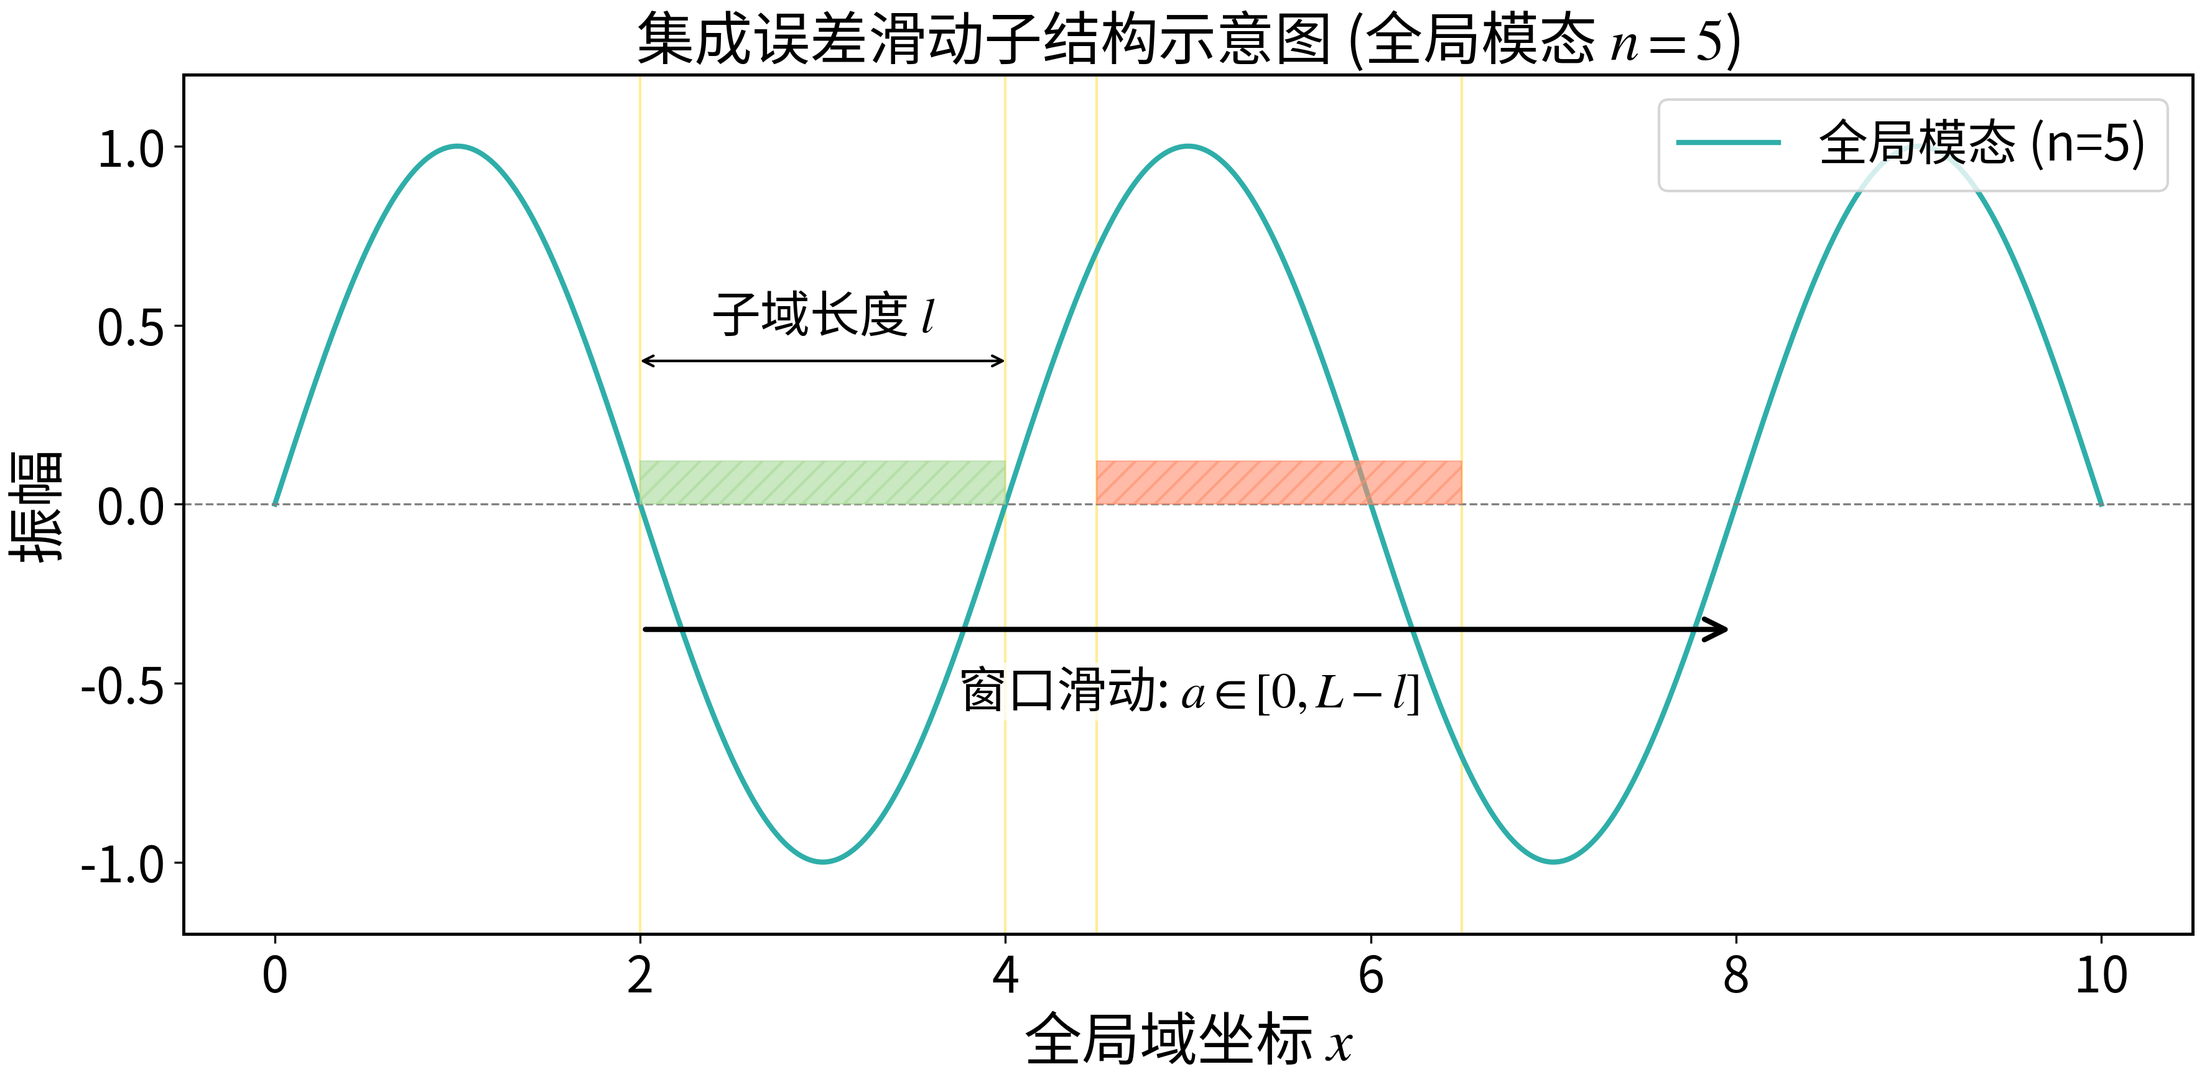
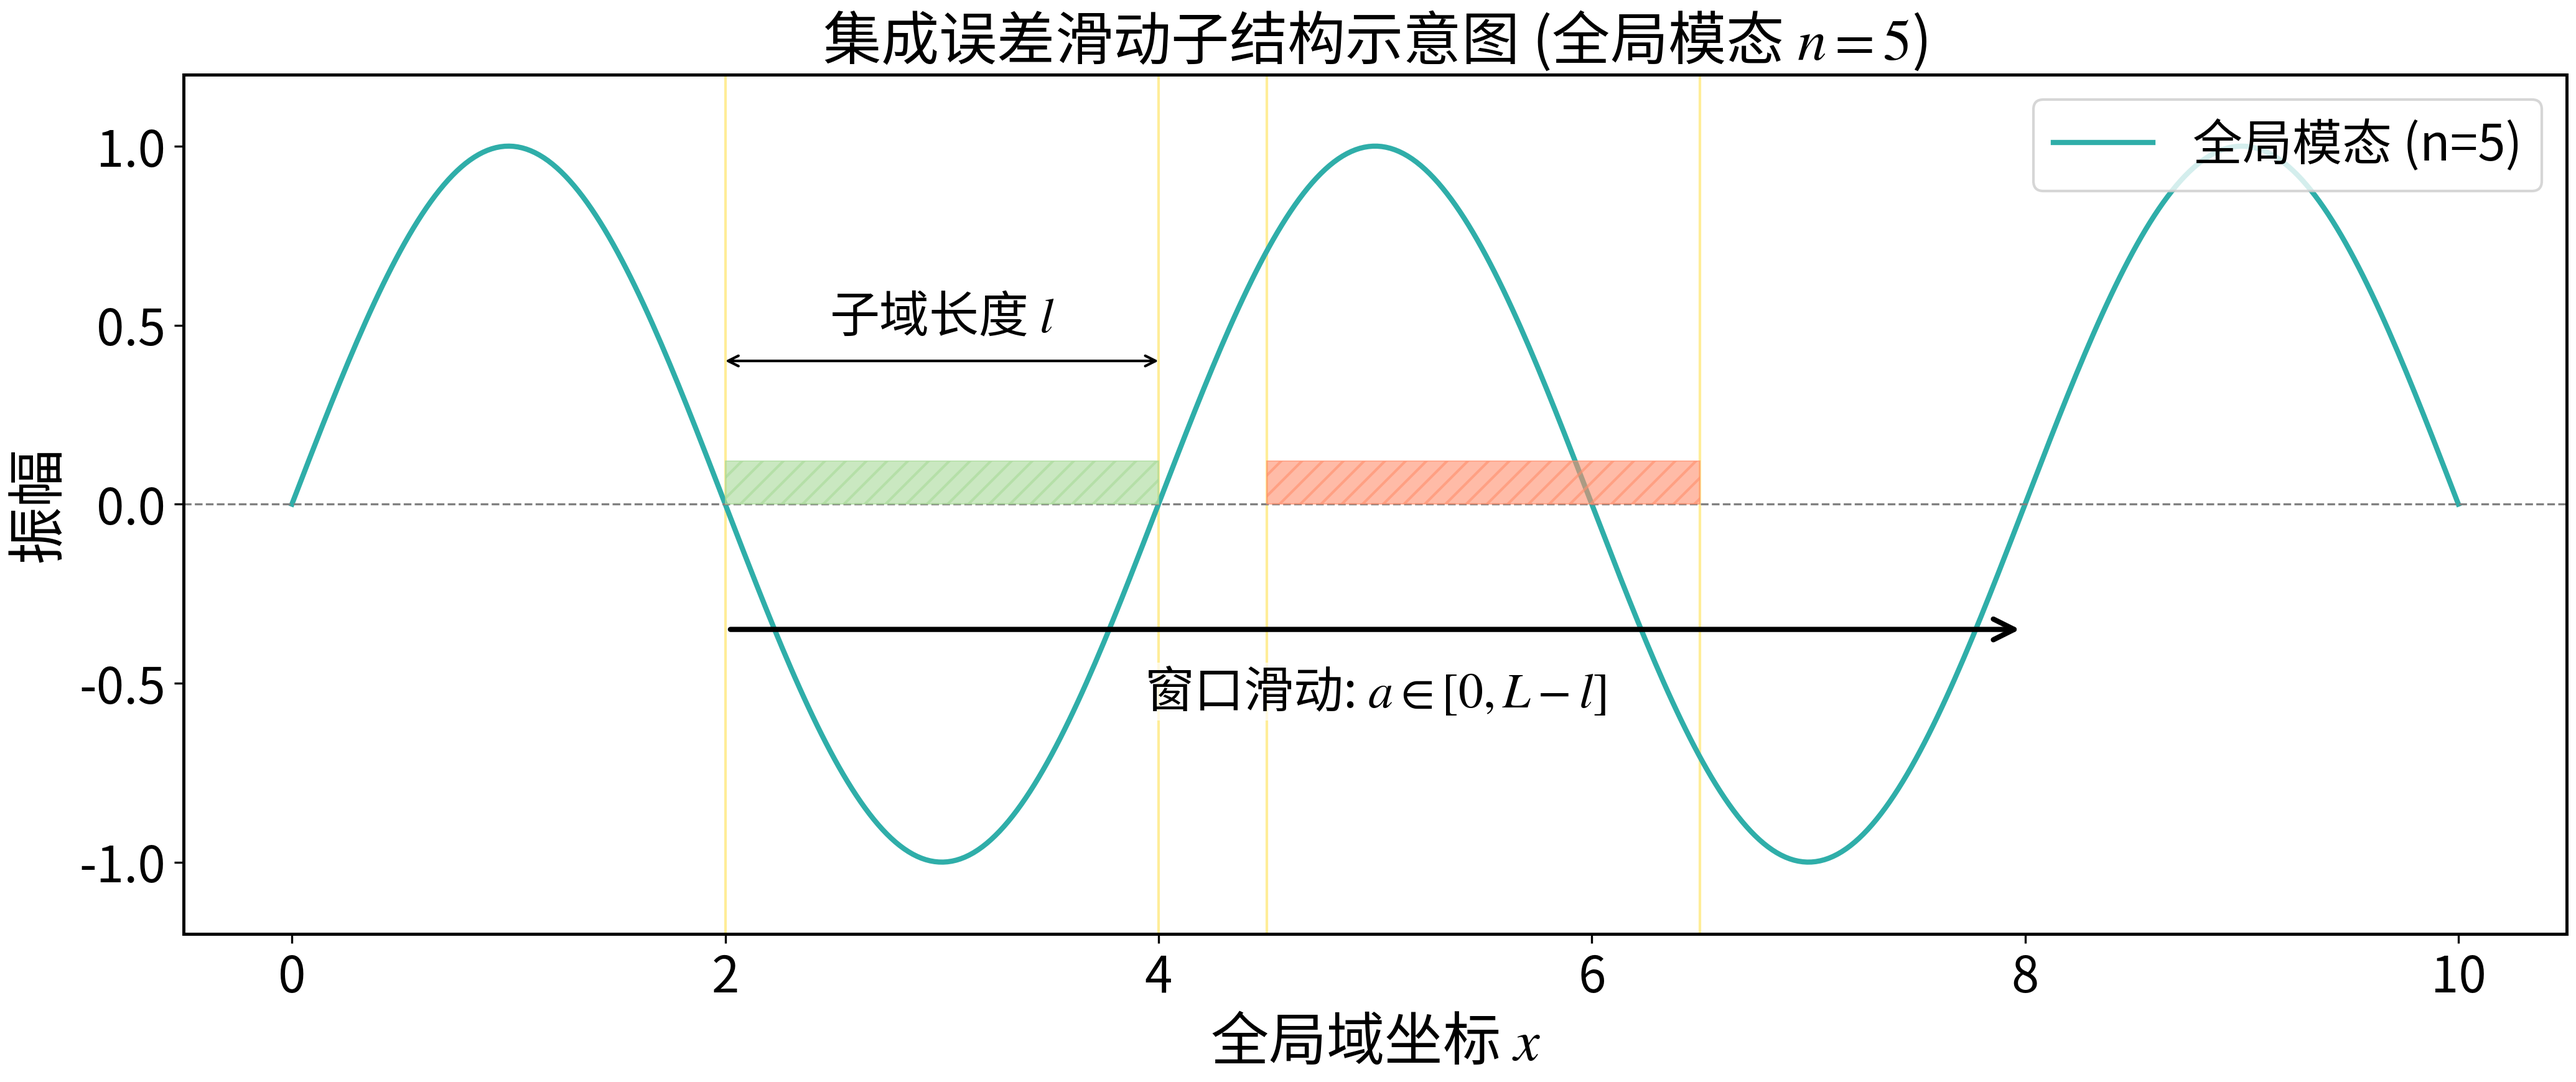
fix(paper3): change integration figsize (12,6)->(14,6) for visual consistency
Figure 4.4 (integration) sits between Fig 4.3 basis (16,6) and
Fig 4.5 fixed-vs-complete-eig-error (16,6) in the same section.
At (12,6) its labels were 8.6pt vs 6.4pt for neighbors -- a 34%
visual mismatch. Change to (14,6) gives 7.3pt effective labels,
closing the gap with nearby figures.

Ultraworked with [Sisyphus](https://github.com/code-yeongyu/oh-my-openagent)

diff --git a/body/graduate/paper3/figures/frequency-vs-phase/plot_integration.py b/body/graduate/paper3/figures/frequency-vs-phase/plot_integration.py
@@ -33,7 +33,7 @@ l = 2.0  # Length of the sliding window
 n_global_to_show = 5
 
 # --- 2. Setup Plot ---
-fig, ax = plt.subplots(1, 1, figsize=(12, 6))
+fig, ax = plt.subplots(1, 1, figsize=(14, 6))
 
 x_global = np.linspace(0, L, 500)
 
